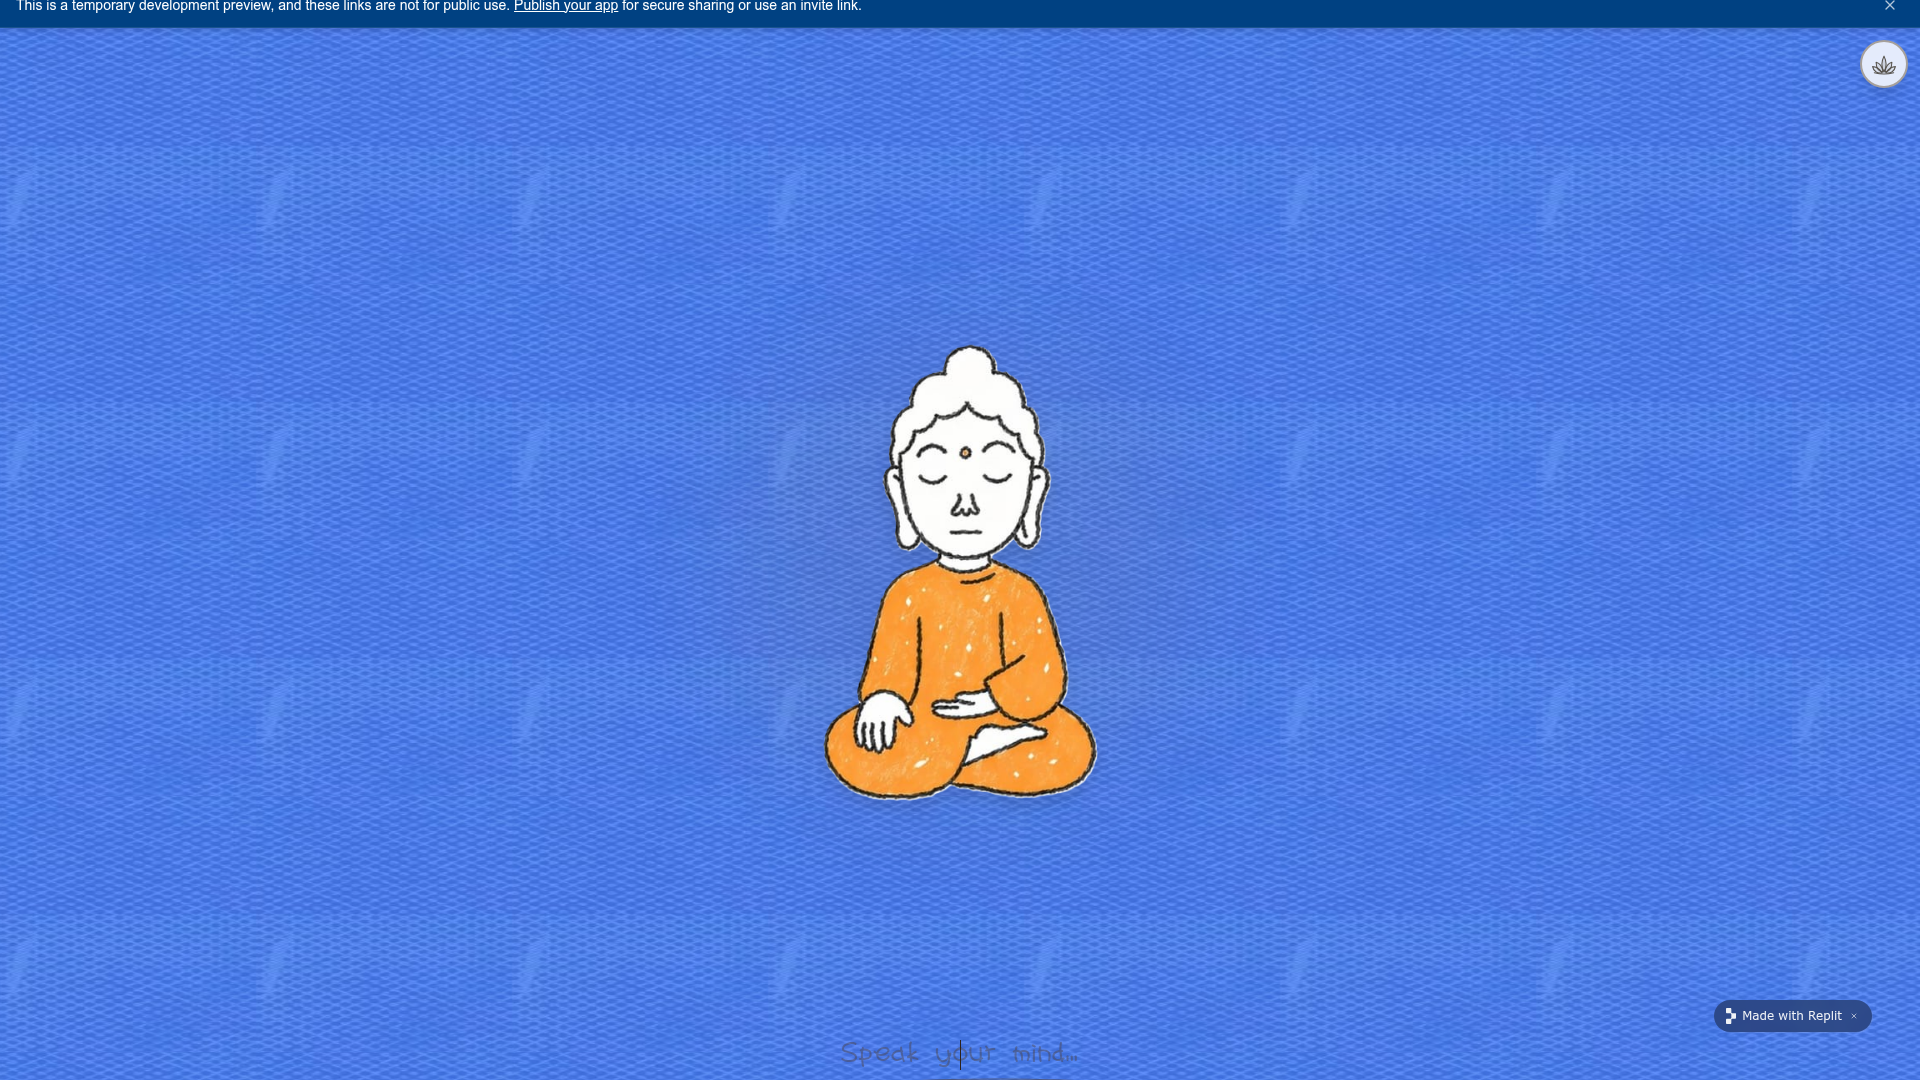
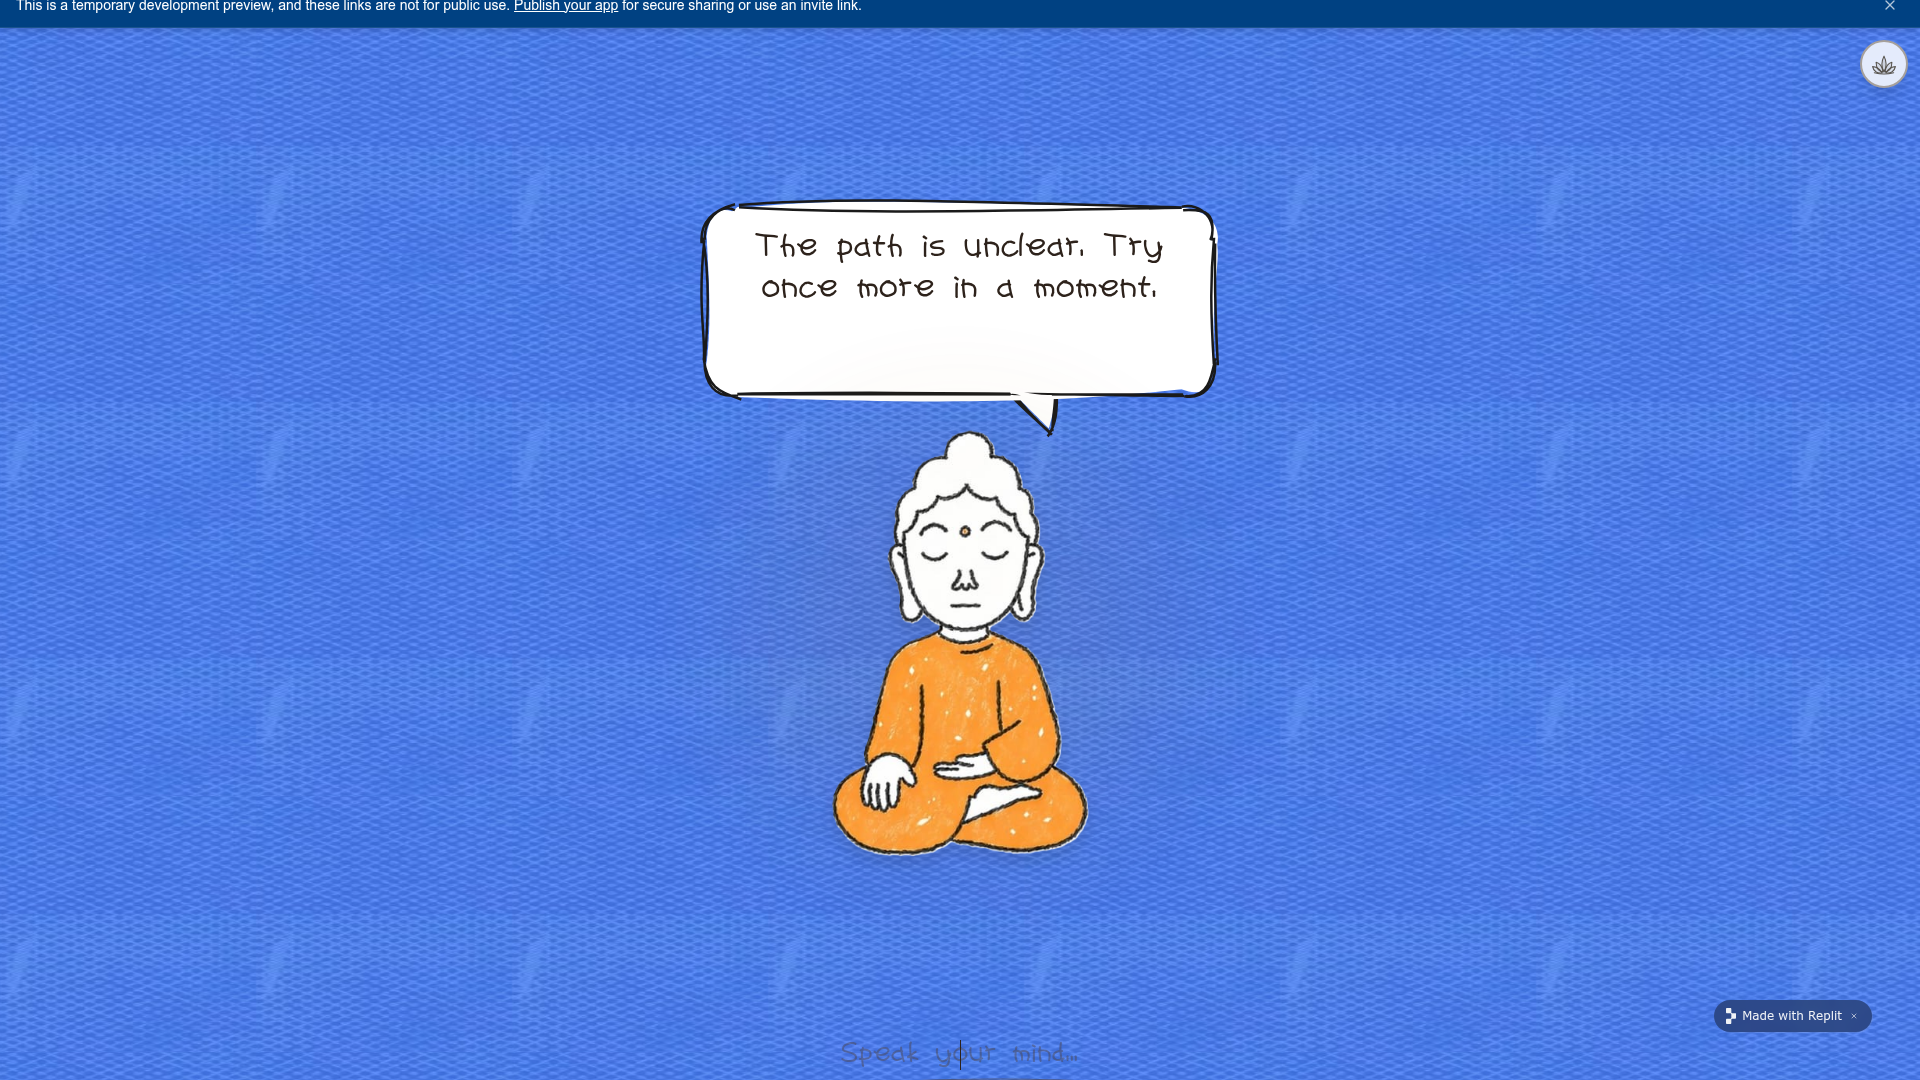
Adjust element positioning to prevent overlap on various screen sizes
Refactor layout in `home.tsx` and sizing in `buddha-sprite.tsx` to use viewport-relative units and a flex column structure, ensuring the chat bubble and Buddha sprite maintain proper spacing across different viewport dimensions.

Replit-Commit-Author: Agent
Replit-Commit-Session-Id: 0a645269-5188-4f82-a5aa-bd2cf86f0a1a
Replit-Commit-Checkpoint-Type: full_checkpoint
Replit-Commit-Event-Id: a594a12e-4497-4a4e-a0f7-ec91f4571fef
Replit-Commit-Screenshot-Url: https://storage.googleapis.com/screenshot-production-us-central1/4f4ead98-dc86-49f4-8585-cd6c6c490429/0a645269-5188-4f82-a5aa-bd2cf86f0a1a/19MrvtX
Replit-Helium-Checkpoint-Created: true

Changed region(s): [[0.3438, 0.1833, 0.6562, 0.7944]]

diff --git a/artifacts/buddha-chat/src/pages/home.tsx b/artifacts/buddha-chat/src/pages/home.tsx
@@ -102,34 +102,41 @@ export default function Home() {
         <LotusToggle active={preachMode} onToggle={togglePreach} />
       </div>
 
-      {/* CINEMATIC: Buddha centered as the focal point, with a slow fade-in. */}
+      {/*
+        CINEMATIC stack: bubble + Buddha travel together as a single centered
+        unit so the bubble's tail always lands just above his head, no matter
+        the viewport size. A reserved bubble slot keeps Buddha from jumping
+        when the bubble appears or disappears.
+      */}
       <div
         className={cn(
-          "absolute inset-0 z-20 flex items-center justify-center pointer-events-none",
+          "absolute inset-0 z-20 flex flex-col items-center justify-center pointer-events-none px-4 pb-24",
           "buddha-fade-in",
         )}
       >
-        <BuddhaSprite state={buddhaState} preachMode={preachMode} size="xl" />
-      </div>
+        {/* Reserved bubble slot — items-end so the tail hugs Buddha's head */}
+        <div className="w-full max-w-[560px] flex items-end justify-center h-[26vh] min-h-[140px] max-h-[260px] mb-[-2vh]">
+          <AnimatePresence mode="wait">
+            {showBubble && latestBuddha && (
+              <motion.div
+                key={latestBuddha.id}
+                initial={{ opacity: 0, y: -8, scale: 0.97 }}
+                animate={{ opacity: 1, y: 0, scale: 1 }}
+                exit={{ opacity: 0, scale: 0.97, transition: { duration: 0.45 } }}
+                transition={{ duration: 0.7, ease: "easeOut" }}
+                className="w-full flex justify-center"
+              >
+                <CurrentTeaching
+                  text={latestBuddha.content}
+                  isLatest={latestBuddha.isStreaming === true || buddhaState === "speaking"}
+                />
+              </motion.div>
+            )}
+          </AnimatePresence>
+        </div>
 
-      {/* SINGLE BUBBLE — sits above Buddha's head. Old fades out, new fades in. */}
-      <div className="absolute inset-x-0 top-0 z-30 flex justify-center pt-[3vh] md:pt-[5vh] px-4 pointer-events-none">
-        <AnimatePresence mode="wait">
-          {showBubble && latestBuddha && (
-            <motion.div
-              key={latestBuddha.id}
-              initial={{ opacity: 0, y: -8, scale: 0.97 }}
-              animate={{ opacity: 1, y: 0, scale: 1 }}
-              exit={{ opacity: 0, scale: 0.97, transition: { duration: 0.45 } }}
-              transition={{ duration: 0.7, ease: "easeOut" }}
-            >
-              <CurrentTeaching
-                text={latestBuddha.content}
-                isLatest={latestBuddha.isStreaming === true || buddhaState === "speaking"}
-              />
-            </motion.div>
-          )}
-        </AnimatePresence>
+        {/* Buddha — focal centerpoint, sized via vmin so he never crowds the bubble */}
+        <BuddhaSprite state={buddhaState} preachMode={preachMode} size="xl" />
       </div>
 
       {/* MINIMAL INPUT — single elegant line, hand-drawn underline, bottom-center */}

diff --git a/artifacts/buddha-chat/src/components/buddha-sprite.tsx b/artifacts/buddha-chat/src/components/buddha-sprite.tsx
@@ -20,11 +20,13 @@ interface BuddhaSpriteProps {
   preachMode?: boolean;
 }
 
+// Sizes are viewport-relative so Buddha never crowds the bubble or input
+// on short viewports. They cap at a sensible max on large screens.
 const SIZE_CLASSES: Record<NonNullable<BuddhaSpriteProps["size"]>, string> = {
-  sm: "w-32 h-32 md:w-40 md:h-40",
-  md: "w-64 h-64 md:w-80 md:h-80",
-  lg: "w-72 h-72 md:w-96 md:h-96",
-  xl: "w-72 h-72 md:w-[26rem] md:h-[26rem] lg:w-[30rem] lg:h-[30rem]",
+  sm: "w-[min(28vmin,10rem)] h-[min(28vmin,10rem)]",
+  md: "w-[min(40vmin,18rem)] h-[min(40vmin,18rem)]",
+  lg: "w-[min(50vmin,22rem)] h-[min(50vmin,22rem)]",
+  xl: "w-[min(58vmin,28rem)] h-[min(58vmin,28rem)]",
 };
 
 export function BuddhaSprite({ state, size = "xl", preachMode = false }: BuddhaSpriteProps) {
